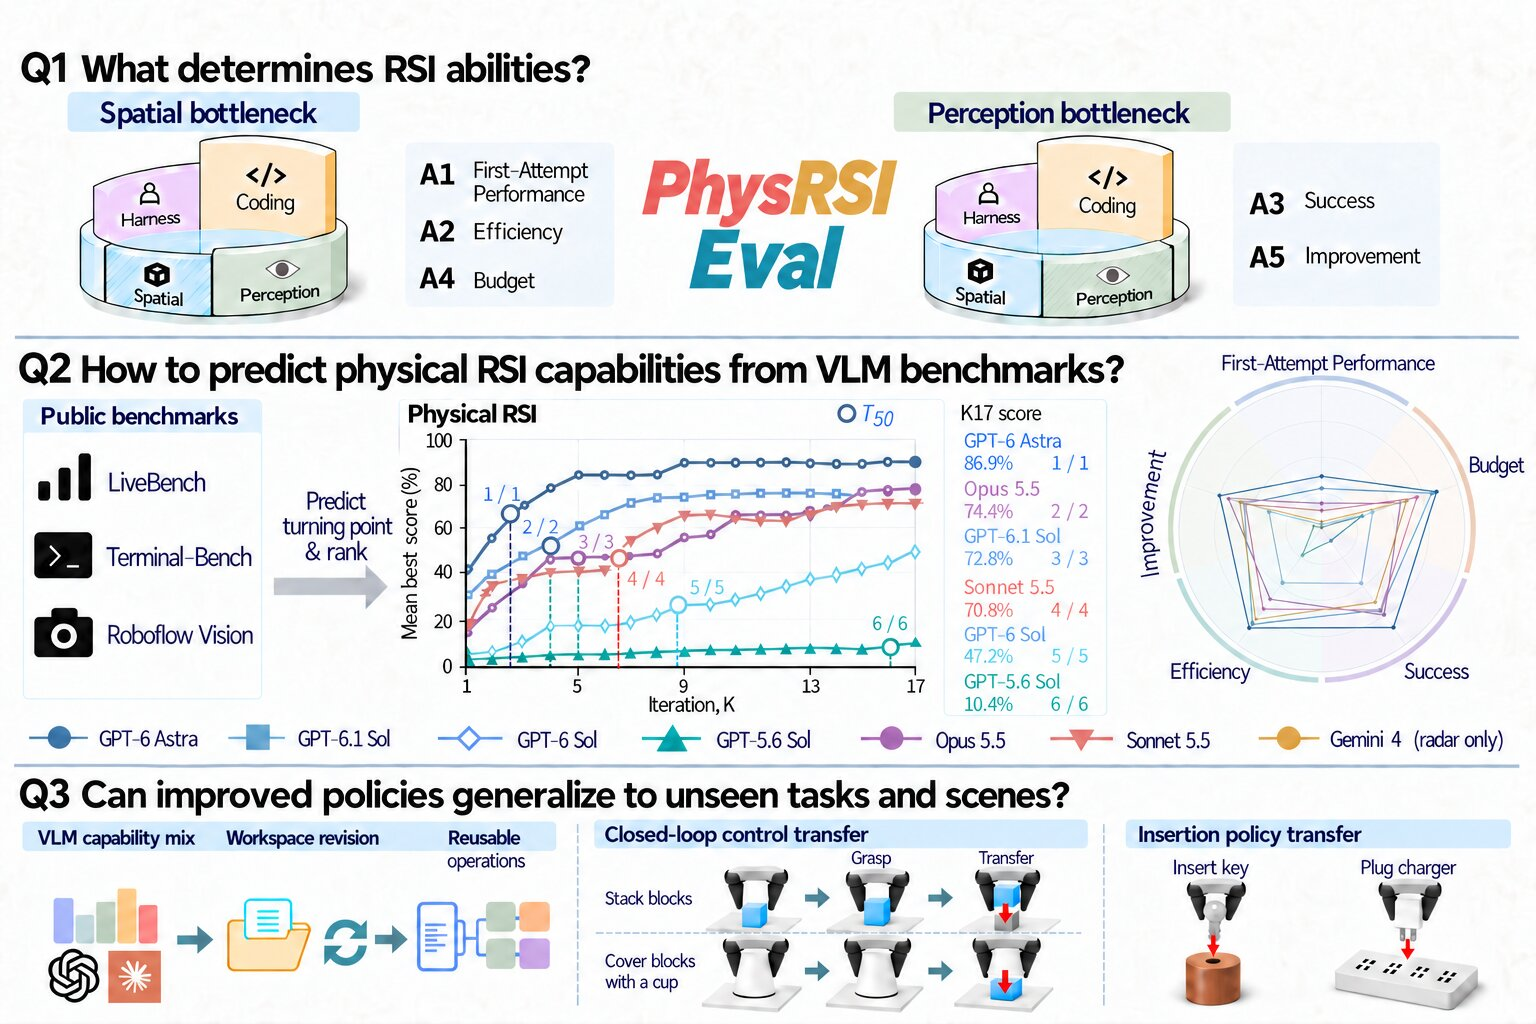
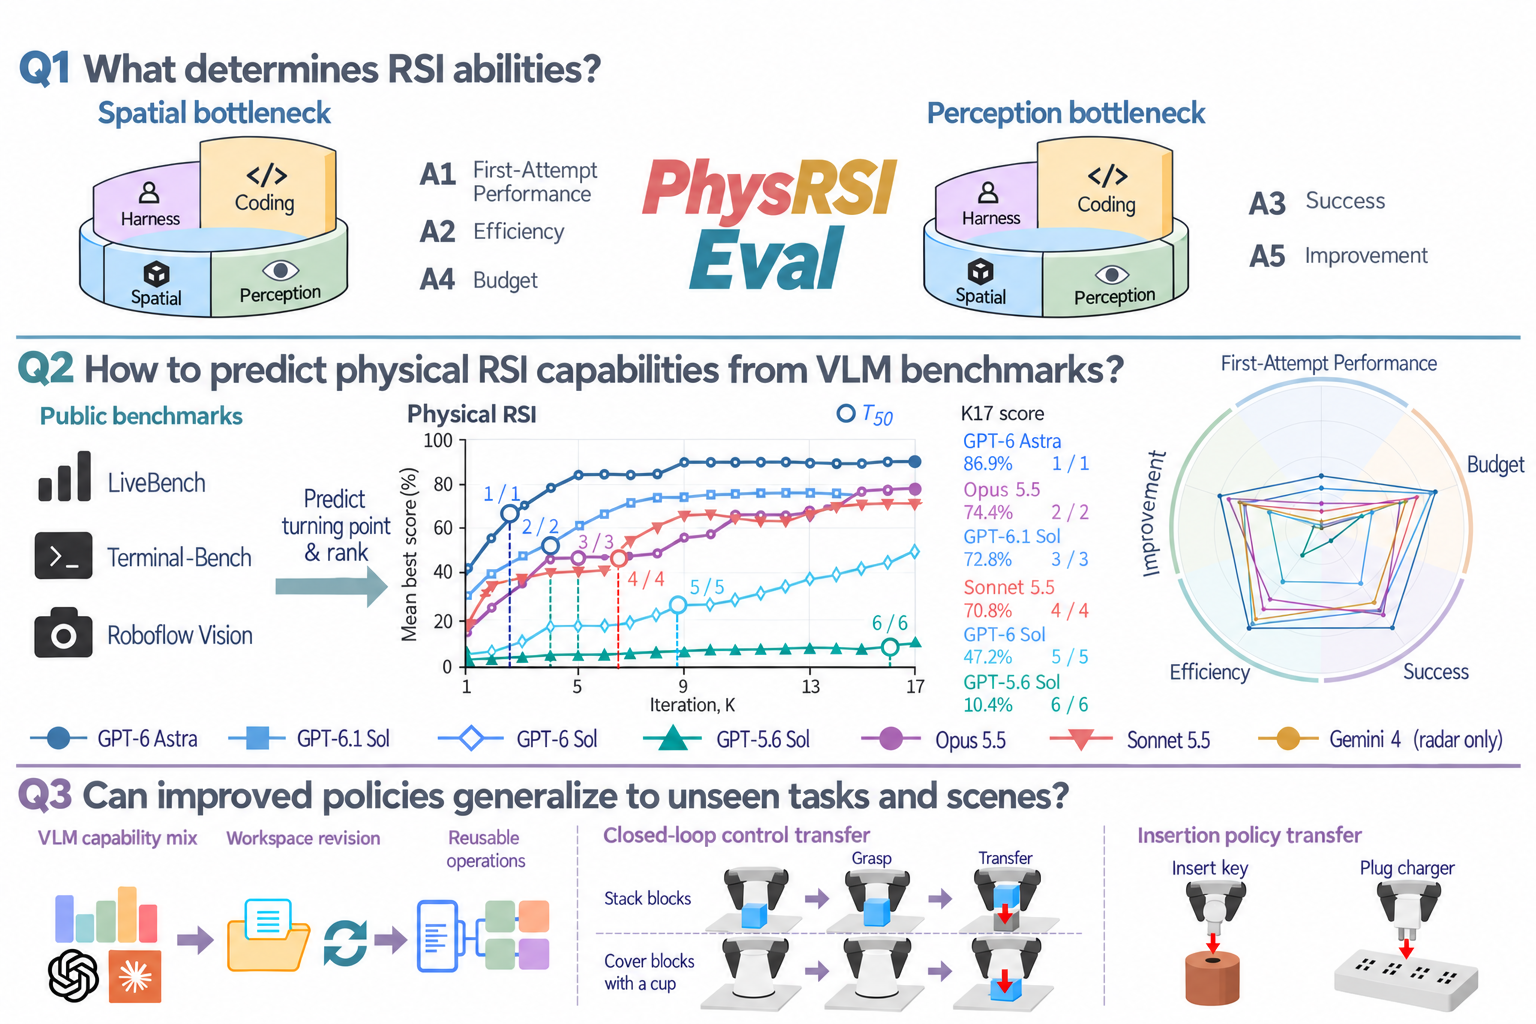
Sync press release with Overleaf: new teaser, axis definitions, scaling note

diff --git a/physrsi-pr/PR.md b/physrsi-pr/PR.md
@@ -30,7 +30,7 @@ Zekai Li\*, Jiayi Yu\*, Jinlu Zhang\*, Luyang Niu\*, Zekun Qi\*, Jun Zheng, Xuch
 
 ## 什么是物理 RSI
 
-模型权重冻结，智能体在每轮真实交互后，自己修改持久化工作区里的技能、工具、策略和记忆，直到首次成功或用完 17 轮预算。18 个 RoboDojo 任务，从五个维度打分：首次尝试、效率、成功、预算、改进。`§3 · 图 2–3`
+模型权重冻结，智能体在每轮真实交互后，自己修改持久化工作区里的技能、工具、策略和记忆，直到首次成功或用完 17 轮预算。18 个 RoboDojo 任务，五个维度分别衡量：首次尝试得分（A1）、增益出现得多早（A2）、达到的最好得分（A3）、首次成功前省下的物理预算（A4）、首轮失败后来被解决的比例（A5）。`§3 · 图 1–3`
 
 | Stack Blocks · GPT-6 Astra · K1 成功 | Cover Blocks · Sonnet 5.5 · K1（迁移）成功 | Plug In Charger · Sonnet 5.5 · K7 成功 | Insert Key · Sonnet 5.5 · K1 得分 0.15 |
 |:-:|:-:|:-:|:-:|
@@ -55,6 +55,8 @@ Zekai Li\*, Jiayi Yu\*, Jinlu Zhang\*, Luyang Niu\*, Zekun Qi\*, Jun Zheng, Xuch
 > Coding 相关弱，不代表不需要它：所有系统都在写代码，只是短板不在这里。
 
 ## Q2　高分、早涨、省交互，三者可以分离
+
+闭源模型不公开参数量和训练算力，经典 Scaling Law 无从下手。论文改用公开基准分数，聚合成空间推理、感知、编程、工具使用四个能力因子，作为可观测的替代。`§1`
 
 <p align="center"><img src="img/radar_panels_7models.svg" width="90%" alt="七个系统的五维画像"></p>
 
